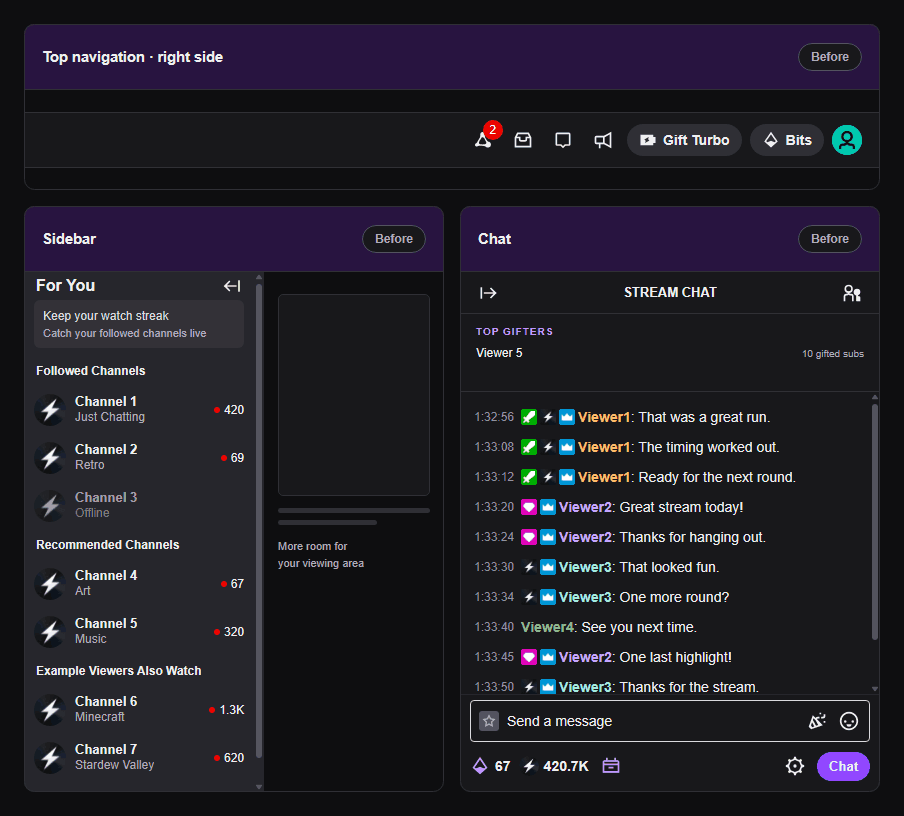
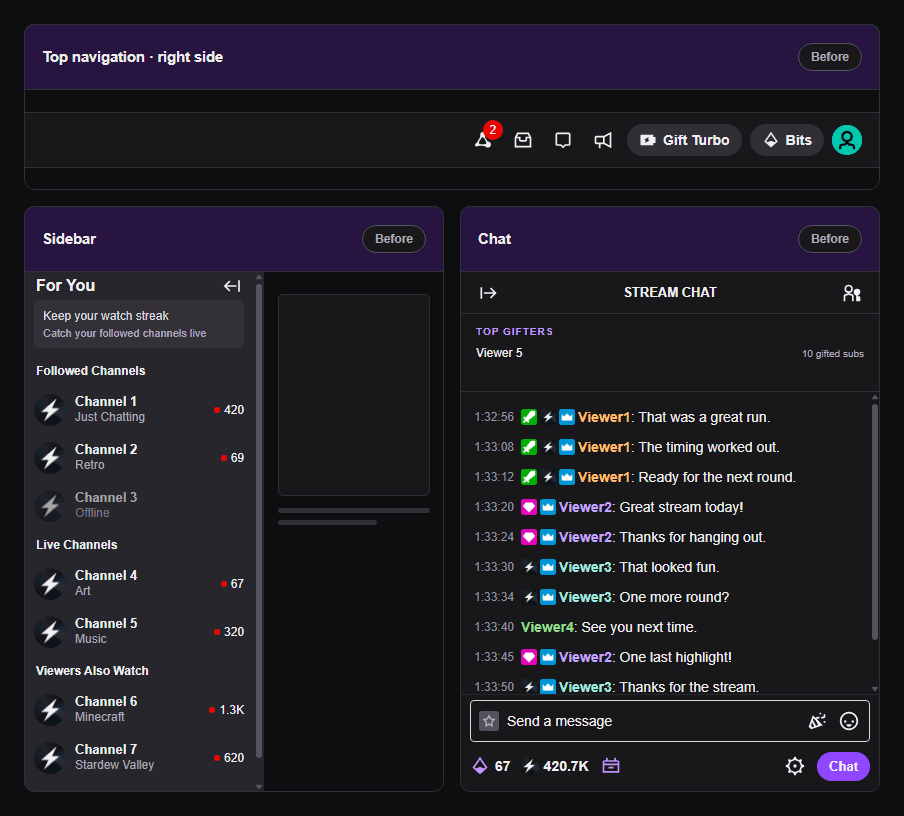
Refresh README preview captures and sidebar fixture
- Update before and after images and GIF
- Align fixture headings and assert native before-state captions

diff --git a/tests/fixtures/readme-preview.html b/tests/fixtures/readme-preview.html
@@ -63,6 +63,7 @@
   .side-nav-card__link--offline [data-a-target="side-nav-live-status"]::before { display:none; }
   #show-more { color:#bf94ff; font-size:12px; margin:4px 8px; }
   .viewing-area { flex:1; min-width:0; background:#0e0e10; padding:22px 14px; }
+  body:not([data-state="after"]) .viewing-area p { visibility:hidden; }
   .video-surface { height:202px; background:var(--preview-surface); border:1px solid var(--preview-button); border-radius:5px; display:flex; align-items:center; justify-content:center; }
   .viewing-area p { margin-top:13px; font-size:11px; line-height:17px; color:var(--preview-muted); }
   .placeholder-line { height:5px; margin-top:12px; background:var(--preview-button); border-radius:3px; }
@@ -175,8 +176,8 @@
   document.querySelectorAll('[data-icon]').forEach(button => button.insertAdjacentHTML('afterbegin', icons[button.dataset.icon]));
   const sections = [
     ['Followed Channels', [['Channel 1','Just Chatting','420'],['Channel 2','Retro','69'],['Channel 3','Offline','']]],
-    ['Recommended Channels', [['Channel 4','Art','67'],['Channel 5','Music','320']]],
-    ['Example Viewers Also Watch', [['Channel 6','Minecraft','1.3K'],['Channel 7','Stardew Valley','620']]]
+    ['Live Channels', [['Channel 4','Art','67'],['Channel 5','Music','320']]],
+    ['Viewers Also Watch', [['Channel 6','Minecraft','1.3K'],['Channel 7','Stardew Valley','620']]]
   ];
   document.querySelector('#demo-sidebar-sections').innerHTML = sections.map(([heading, rows], index) => `<section class="side-nav-section" aria-label="${heading}"><div class="${index ? 'side-nav-header' : 'followed-side-nav-header'}"><h3>${heading}</h3></div>${rows.map(([name,game,count]) => `<div class="side-nav-card"><a class="side-nav-card__link ${count ? '' : 'side-nav-card__link--offline'}" href="/example" aria-label="${name}"><div class="side-nav-card__avatar"><div class="tw-avatar"><img src="${icons.avatar}" alt="Anonymous avatar"></div></div><div class="native-details"><div><div data-a-target="side-nav-card-metadata"><div class="side-nav-card__title">${name}</div><div class="side-nav-card__metadata"><p>${game}</p></div></div><div data-a-target="side-nav-live-status"><span aria-hidden="true">${count}</span></div></div></div></a></div>`).join('')}</section>`).join('');
   const badge = (name, image) => `<span class="badge-layout"><button data-a-target="chat-badge" aria-label="${name}"><img class="chat-badge" alt="${name} badge" src="${image}"></button></span>`;
